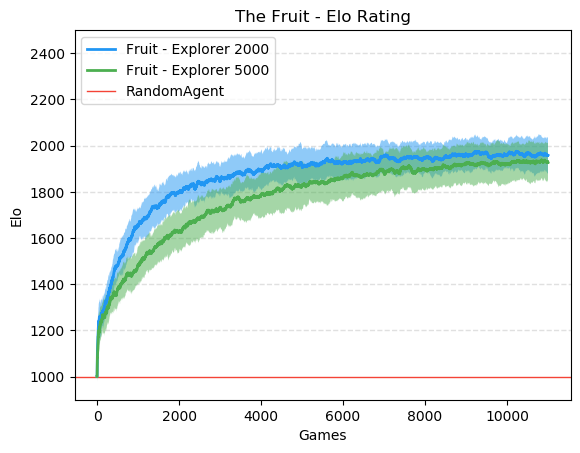
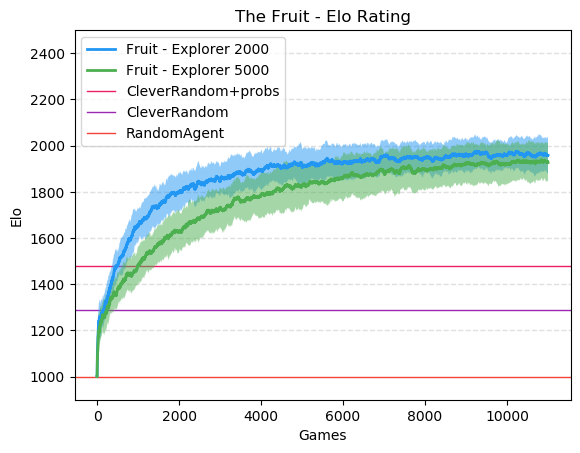
fruit plots

diff --git a/plotgenerators/theBest.py b/plotgenerators/theBest.py
@@ -13,7 +13,6 @@ data = np.array(pd.read_csv("outputs/Fruit-5000/csv/NNAgent15Fruit-5000-EloOverT
 
 with EloPlot(title=f'The Very Best Fruit', saves=[f'GoodPlots/BestSingleFruit.png'], CR=False, CRP=False) as plt:
     plt.plot(data, label='The Best Fruit', color='#4CAF50')
-    plt.ylim((900, 2500))
     plt.doPrint = True
-    plt.axhline(y=1660.82, color='#E91E63', lw=1, label='CleverRandom+probs', zorder=1)
-    plt.axhline(y=1293.76, color='#9C27B0', lw=1, label='CleverRandom', zorder=1)
+    plt.axhline(y=1480.4, color='#E91E63', lw=1, label='CleverRandom+probs', zorder=1)
+    plt.axhline(y=1289.0, color='#9C27B0', lw=1, label='CleverRandom', zorder=1)

diff --git a/plotgenerators/bestFruit.py b/plotgenerators/bestFruit.py
@@ -13,5 +13,5 @@ with EloPlot(title=f'The Fruit - Elo Rating', saves=[f'GoodPlots/BestFruit.png']
         print(f'{name}: mean = {m:.6}    ,    95% = [{(m-sd):.6}, {(m+sd):.6}]      Calculated from {theData.shape[1]} samples.')
 
         plt.varPlot(plt, EloOverTime, name, color)
-    plt.axhline(y=1660.82, color='#E91E63', lw=1, label='CleverRandom+probs', zorder=1)
-    plt.axhline(y=1293.76, color='#9C27B0', lw=1, label='CleverRandom', zorder=1)
+    plt.axhline(y=1480.4, color='#E91E63', lw=1, label='CleverRandom+probs', zorder=1)
+    plt.axhline(y=1289.0, color='#9C27B0', lw=1, label='CleverRandom', zorder=1)
